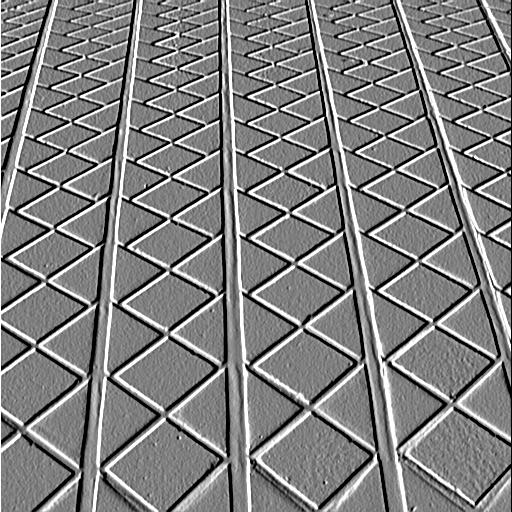
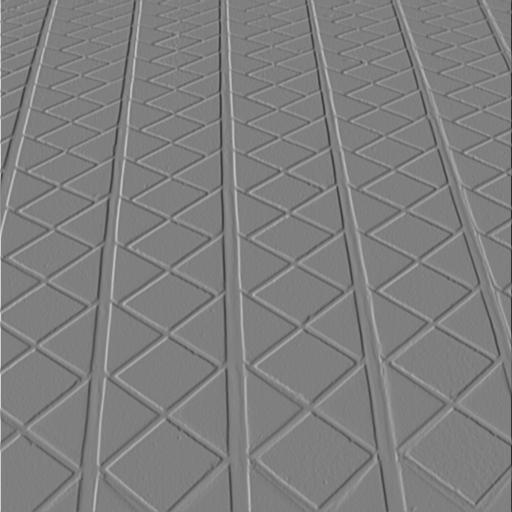
p4a1 technically finished

diff --git a/4/DBV_4a_Ex_Binomial_Ableitung_Laplace_Gruppe_08.m b/4/DBV_4a_Ex_Binomial_Ableitung_Laplace_Gruppe_08.m
@@ -31,12 +31,12 @@ figure( 1 ), imshow( g );
 %% Ableitung in x-Richtung:
 % Leiten Sie das Bild in x-Richtung mit einem 3x3-Binomialfilter ab.
 % Dazu steht die Funktion Binomialfilter() bereit.
-hdx = Binomialfilter( [3,0,3,1], 0 );
-gdx = imfilter( double( g ), double( hdx ) );
+[hdx, nfactor] = Binomialfilter( [3,0,3,1], 0 );
+gdx = nfactor .* imfilter( double( g ), double( hdx ) );
 
 % Stellen Sie das abgeleitete Bild mit dem Nullpunkt beim mittleren
 % Grauwert der Grauwertskala dar und speichern es ab:
-figure( 2 ); imshow( uint8( gdx + 127 ) );
+figure( 2 ), imshow( uint8( gdx + 127 ) );
 imwrite( uint8( gdx + 127 ), 'Ergebnisse/Tile-gray_dx.jpg', 'jpg' );
 
 % Frage: Beschreiben Sie das Ergebnis bzgl. Kanten und Fl�chen:
@@ -47,13 +47,16 @@ imwrite( uint8( gdx + 127 ), 'Ergebnisse/Tile-gray_dx.jpg', 'jpg' );
 % Leiten Sie das Bild in Richtung des Vektors n=(x,y)'=(2,1)', also etwa
 % in 26-Grad-Richtung ab:
 % Verwenden Sie dabei 3x3-Binomialfilter:
-%hdn = Binomialfilter( [3,0,3,1], 0 );
-%gdn = imfilter( double( g ), double( hdn ) );
+phi = atan2( -2,1 );
+hdx = Binomialfilter( [3,0,3,1], 0 );
+[hdy, nfactor] = Binomialfilter( [3,1,3,0], 0 );
+hdn = cos( phi ) .* hdx + sin( phi ) .* hdy;
+gdn = nfactor .* imfilter( double( g ), double( hdn ) );
 
 % Stellen Sie das abgeleitete Bild mit dem Nullpunkt beim mittleren
 % Grauwert der Grauwertskala dar und speichern es ab:
-%figure(3); imshow(???);
-%imwrite( ???, 'Ergebnisse/Tile-gray_dn.jpg', 'jpg' );
+figure( 3 ), imshow( uint8( gdn + 127 ) );
+imwrite( uint8( gdn + 127 ), 'Ergebnisse/Tile-gray_dn.jpg', 'jpg' );
 
 % Frage: Beschreiben Sie den Unterschied im Ergebnis zur Ableitung 
 %        in x-Richtung:
@@ -65,13 +68,15 @@ imwrite( uint8( gdx + 127 ), 'Ergebnisse/Tile-gray_dx.jpg', 'jpg' );
 %% Laplace mit Binomialfilter:
 % Erzeugen Sie den 7x7-Binomial-Laplace-Filter. Wie lautet der Operator?
 % Filtern Sie das Bild damit:
-%hblap = ???
-%gblap = ???
+hblabx = Binomialfilter( [7,2,7,0], 0 );
+[hblaby, nfactor] = Binomialfilter( [7,0,7,2], 0 );
+hblap = 0.5 .* ( hblabx + hblaby );
+gblap = nfactor .* imfilter( double( g ), double( hblap ) );
 
 % Stellen Sie das abgeleitete Bild mit dem Nullpunkt beim mittleren
 % Grauwert der Grauwertskala dar und speichern es ab:
-%figure(5); imshow(???);
-%imwrite( ???, 'Ergebnisse/Tile-gray_binlaplace.jpg', 'jpg' );
+figure( 4 ), imshow( uint8( gblap + 127 ) );
+imwrite( uint8( gblap + 127 ), 'Ergebnisse/Tile-gray_binlaplace.jpg', 'jpg' );
 
 % Frage: Beschreiben Sie den Unterschied im Ergebnis zur Ableitung 
 %        in x-Richtung:
@@ -86,9 +91,23 @@ imwrite( uint8( gdx + 127 ), 'Ergebnisse/Tile-gray_dx.jpg', 'jpg' );
 % Hinweise:
 % - Berechnung des Betragsspektrums
 % - Beurteilung und Begr�ndung mittels "Anschauen".
+fg = fftshift( fft2( g ) );
+afg = abs( fg );
+afg = afg / max( max ( afg ) ) * 255;
+figure( 5 ), imshow( afg );
 
-%???
+% Werte für xmax/ymax aus Spektrum ablesen:
 
+xmax = 430;
+ymax = 95;
+
+du = 1/512; % ???
+sizex = round( 1 / ( ( xmax - 256 ) * du ) )
+sizey = round( 1 / ( ( 256 - ymax ) * du ) )
+
+[h, nfactor] = Binomialfilter( [sizex,0,sizey,0], 0 );
+gsam = nfactor .* imfilter( double( g ), double( h ) );
+figure( 6 ), imshow( uint8( gsam ) );
 
 %%
 %'fertig'
